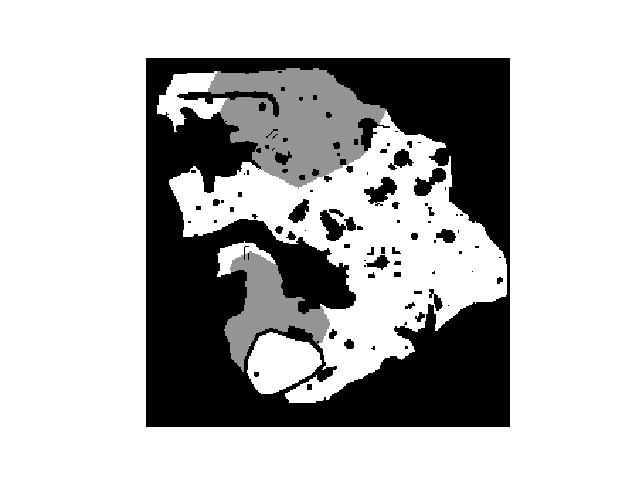
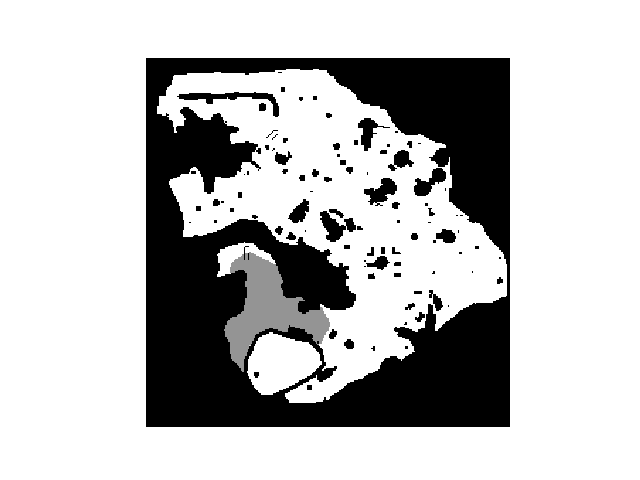
Updated code

Changed region(s): [[0.3125, 0.125, 0.625, 0.4062]]

diff --git a/starter/search/algorithms.py b/starter/search/algorithms.py
@@ -1,5 +1,4 @@
 import heapq
-import math
 
 class Dijkstra:
     def __init__(self, gridded_map):
@@ -8,21 +7,29 @@ class Dijkstra:
         self.closed_list: dict[int, State] = {}
 
     def search(self, start, goal):
+        self.frontier = []
+        self.closed_list = {}
         current: State = start
         self.closed_list[current.state_hash()] = current
+
         while current != goal:
             # get children and heappush qualified to frontier (set cost and parent)
             children = self.gridded_map.successors(current)
             for child in children:
-                if not self.in_closed_list(child):
+                if child.state_hash() not in self.closed_list:
                     child.set_cost(child.get_g())
                     child.set_parent(current)
                     heapq.heappush(self.frontier, child)
-            
+
+            # if frontier is empty, the problem has not solution
+            if not self.frontier:
+                return None, -1, len(self.closed_list)
 
             # pop child from frontier and check if it is already in the closed list; if yes, pop again
             current = heapq.heappop(self.frontier)
-            while self.in_closed_list(current):
+            while current.state_hash() in self.closed_list:
+                if not self.frontier:
+                    return None, -1, len(self.closed_list)
                 current = heapq.heappop(self.frontier)
 
             # add current to closed list
@@ -31,22 +38,68 @@ class Dijkstra:
         # current == goal now
         path = []
         cost = current.get_cost()
-        expanded = 0
+        expanded = len(self.closed_list)
         while not(current.get_parent() is None):
             path.append(current)
-            expanded += 1
             current = current.get_parent()
 
         # return path, cost, expanded
-        return path, cost, expanded
+        return path.reverse(), cost, expanded
 
+    def get_closed_data(self):
+        return self.closed_list
 
-    def in_closed_list(self, child_state):
-        child_hash = child_state.state_hash()
-        for state_hash in self.closed_list:
-            if state_hash == child_hash:
-                return True
-        return False
+class AStar:
+    def __init__(self, gridded_map):
+        self.gridded_map = gridded_map
+        self.frontier: list[State] = []
+        self.closed_list: dict[int, State] = {}
+
+    def search(self, start, goal):
+        g_x = goal.get_x()
+        g_y = goal.get_y()
+
+        self.frontier = []
+        self.closed_list = {}
+        current: State = start
+        self.closed_list[current.state_hash()] = current
+
+        while current != goal:
+            # get children and heappush qualified to frontier (set cost and parent)
+            children = self.gridded_map.successors(current)
+            for child in children:
+                if child.state_hash() not in self.closed_list:
+                    d_x = abs(child.get_x() - g_x)
+                    d_y = abs(child.get_y() - g_y)
+                    h = 1.5 * min(d_x, d_y) + abs(d_x - d_y)
+                    child.set_cost(child.get_g() + h)
+                    child.set_parent(current)
+                    heapq.heappush(self.frontier, child)
+
+            # if frontier is empty, the problem has not solution
+            if not self.frontier:
+                return None, -1, len(self.closed_list)
+
+            # pop child from frontier and check if it is already in the closed list; if yes, pop again
+            current = heapq.heappop(self.frontier)
+            while current.state_hash() in self.closed_list:
+                if not self.frontier:
+                    return None, -1, len(self.closed_list)
+                current = heapq.heappop(self.frontier)
+
+            # add current to closed list
+            self.closed_list[current.state_hash()] = current
+
+        # current == goal now
+        path = []
+        cost = current.get_cost()
+        expanded = len(self.closed_list)
+        while not(current.get_parent() is None):
+            path.append(current)
+            current = current.get_parent()
+
+        # return path, cost, expanded
+        return path.reverse(), cost, expanded
 
     def get_closed_data(self):
         return self.closed_list

diff --git a/starter/main.py b/starter/main.py
@@ -1,5 +1,5 @@
 import time
-from search.algorithms import Dijkstra, State
+from search.algorithms import Dijkstra, AStar, State
 from search.map import Map
 import getopt
 import sys
@@ -35,7 +35,7 @@ def main():
                               
     gridded_map = Map("dao-map/brc000d.map")
     dijkstra = Dijkstra(gridded_map)
-    # astar = AStar(gridded_map)
+    astar = AStar(gridded_map)
     
     nodes_expanded_dijkstra = []  
     nodes_expanded_astar = []
@@ -61,7 +61,7 @@ def main():
         goal = goal_states[i]
     
         time_start = time.time()
-        path, cost, expanded_diskstra = dijkstra.search(start, goal) # Replace the None, None, None with a call to Dijkstra's algorithm
+        path, cost, expanded_diskstra = dijkstra.search(start, goal) 
         time_end = time.time()
         nodes_expanded_dijkstra.append(expanded_diskstra)
         time_dijkstra.append(time_end - time_start)
@@ -80,7 +80,7 @@ def main():
         goal = goal_states[i]
     
         time_start = time.time()
-        path, cost, expanded_astar = None, None, None # Replace the None, None, None with a call to A*
+        path, cost, expanded_astar = astar.search(start, goal)
         time_end = time.time()
 
         nodes_expanded_astar.append(expanded_astar)
@@ -97,7 +97,7 @@ def main():
             print()
 
         gridded_map.plot_map(dijkstra.get_closed_data(), start, goal, 'solution-maps/dijkstra_' + str(i + 1))
-        # gridded_map.plot_map(astar.get_closed_data(), start, goal, 'solution-maps/astar_' + str(i + 1))
+        gridded_map.plot_map(astar.get_closed_data(), start, goal, 'solution-maps/astar_' + str(i + 1))
 
 
     from search.plot_results import PlotResults
